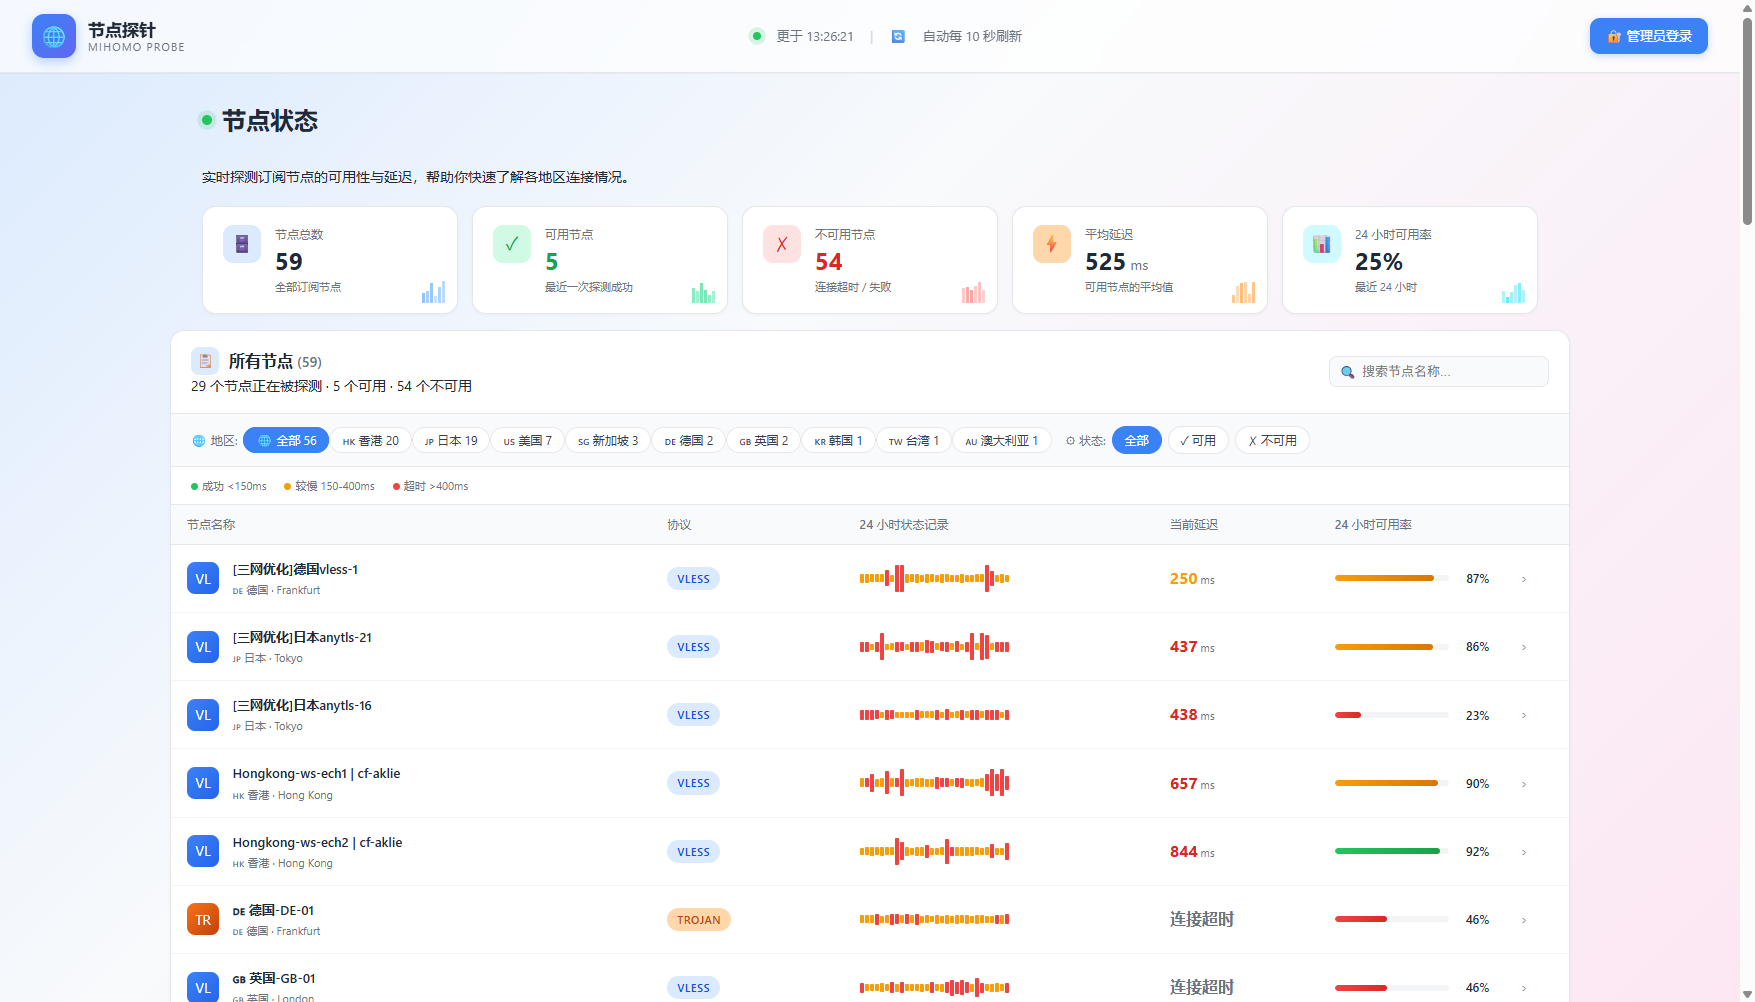
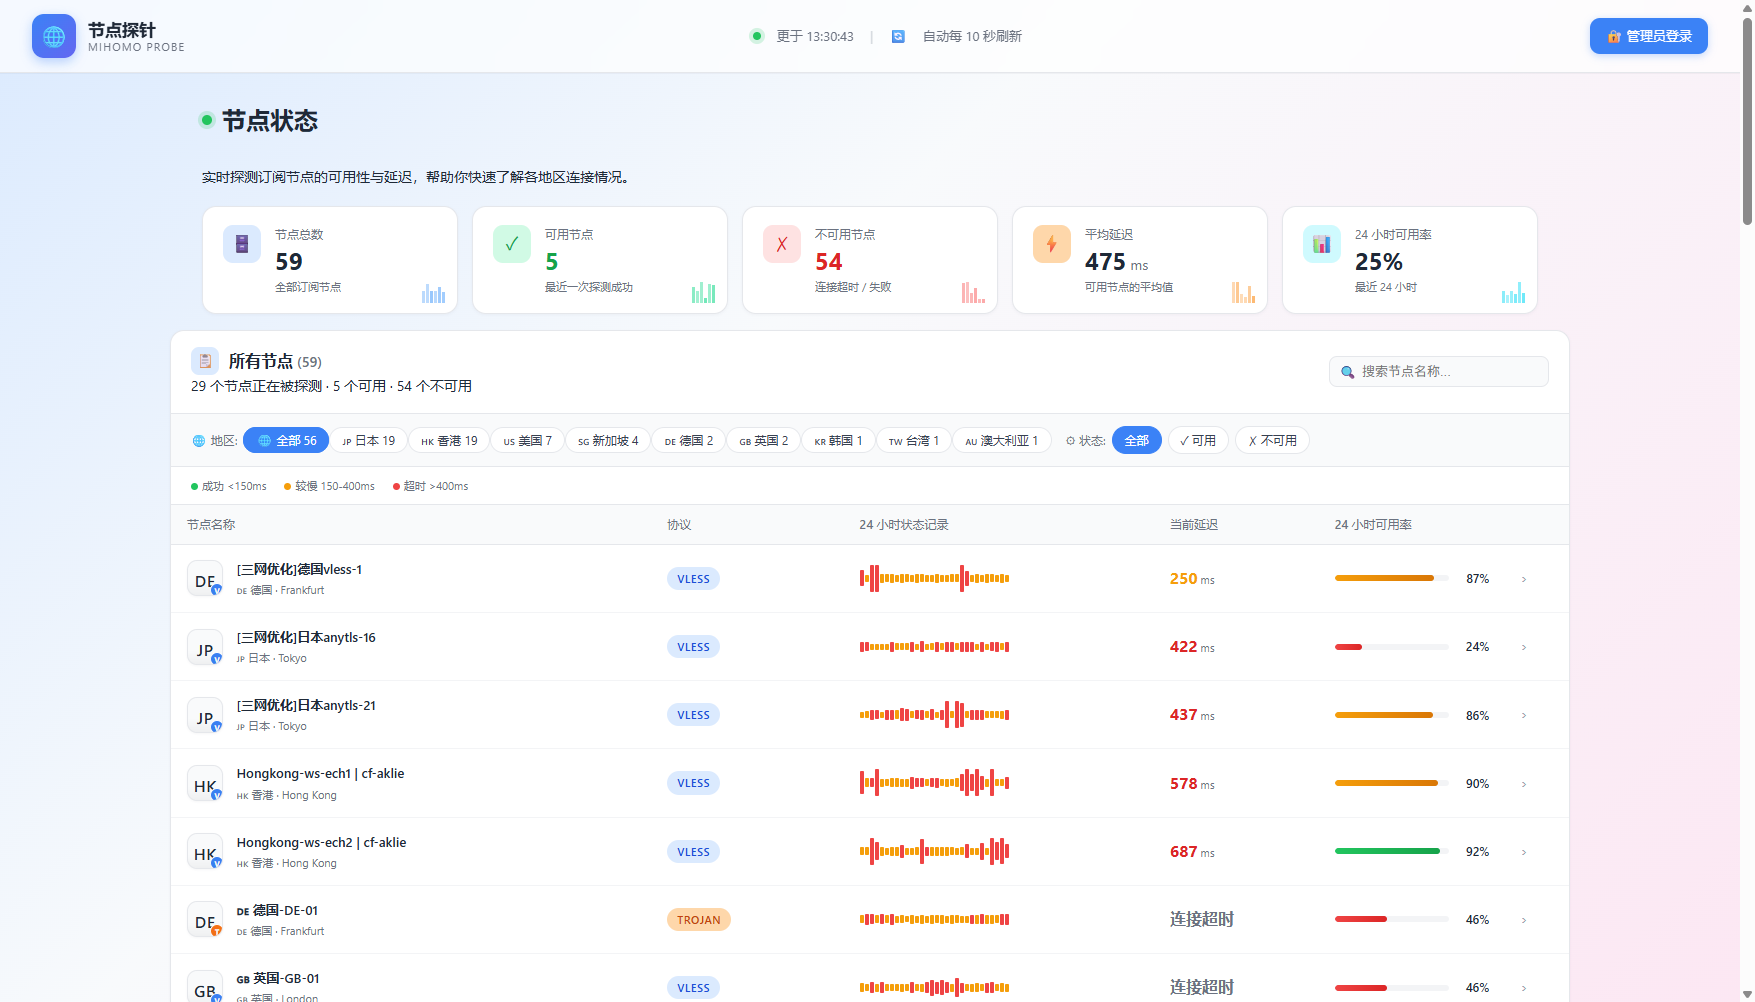
feat(ui): 节点行首图标改为国家国旗
- 把协议缩写方块（VL/TR/SS）改为 36x36 国家国旗大图标
- 浅灰底 + 1px 边框 + 阴影
- 右下角小角标显示协议类型首字母（V/T/S/H/A）
- country 为空时 fallback 到协议缩写方块

diff --git a/backend/static/index.html b/backend/static/index.html
@@ -194,20 +194,46 @@
     .probe-table tr:hover td { background: #fafbfc; }
 
     .probe-table .name-cell { min-width: 280px; }
+    /* 节点类型彩色方块改为国家国旗大图标 */
     .probe-table .name-cell .ico-bg {
-      width: 32px; height: 32px; border-radius: 8px;
+      width: 36px; height: 36px; border-radius: 10px;
       display: inline-flex; align-items: center; justify-content: center;
-      font-size: 14px; color: #fff; margin-right: 10px;
-      vertical-align: middle; flex: 0 0 32px;
+      font-size: 22px; line-height: 1; margin-right: 10px;
+      vertical-align: middle; flex: 0 0 36px;
+      background: #f3f4f6; border: 1px solid var(--border);
+      box-shadow: 0 1px 2px rgba(15, 23, 42, .04);
+      position: relative; overflow: hidden;
     }
-    .probe-table .name-cell .ico-bg.proto-vless    { background: linear-gradient(135deg, #3b82f6, #2563eb); }
-    .probe-table .name-cell .ico-bg.proto-anytls   { background: linear-gradient(135deg, #06b6d4, #0e7490); }
-    .probe-table .name-cell .ico-bg.proto-trojan   { background: linear-gradient(135deg, #f97316, #c2410c); }
-    .probe-table .name-cell .ico-bg.proto-vmess    { background: linear-gradient(135deg, #ec4899, #be185d); }
-    .probe-table .name-cell .ico-bg.proto-ss       { background: linear-gradient(135deg, #8b5cf6, #6d28d9); }
-    .probe-table .name-cell .ico-bg.proto-hysteria2{ background: linear-gradient(135deg, #10b981, #047857); }
-    .probe-table .name-cell .ico-bg.proto-direct  { background: linear-gradient(135deg, #6b7280, #374151); }
-    .probe-table .name-cell .ico-bg.proto-other    { background: linear-gradient(135deg, #64748b, #334155); }
+    .probe-table .name-cell .ico-bg::after {
+      content: ''; position: absolute; inset: 0;
+      background: linear-gradient(180deg, transparent 60%, rgba(0,0,0,.04));
+      pointer-events: none;
+    }
+    .probe-table .name-cell .ico-bg.proto-vless,
+    .probe-table .name-cell .ico-bg.proto-anytls,
+    .probe-table .name-cell .ico-bg.proto-trojan,
+    .probe-table .name-cell .ico-bg.proto-vmess,
+    .probe-table .name-cell .ico-bg.proto-ss,
+    .probe-table .name-cell .ico-bg.proto-hysteria2,
+    .probe-table .name-cell .ico-bg.proto-direct,
+    .probe-table .name-cell .ico-bg.proto-other {
+      background: #f9fafb; color: #1f2937;
+    }
+    /* 协议类型小角标（在国旗右下角） */
+    .probe-table .name-cell .ico-bg .proto-badge {
+      position: absolute; right: -2px; bottom: -2px;
+      width: 14px; height: 14px; border-radius: 50%;
+      background: var(--blue); color: #fff;
+      font-size: 8px; font-weight: 700; line-height: 14px;
+      text-align: center; border: 1.5px solid #fff;
+    }
+    .probe-table .name-cell .ico-bg .proto-badge.trojan { background: #f97316; }
+    .probe-table .name-cell .ico-bg .proto-badge.anytls { background: #06b6d4; }
+    .probe-table .name-cell .ico-bg .proto-badge.ss { background: #8b5cf6; }
+    .probe-table .name-cell .ico-bg .proto-badge.hysteria2 { background: #10b981; }
+    .probe-table .name-cell .ico-bg .proto-badge.vmess { background: #ec4899; }
+    .probe-table .name-cell .ico-bg .proto-badge.direct { background: #6b7280; }
+    .probe-table .name-cell .ico-bg .proto-badge.other { background: #64748b; }
     .probe-table .name-cell .name-text { display: inline-block; vertical-align: middle; }
     .probe-table .name-cell .name-text .main { font-weight: 600; color: var(--text); }
     .probe-table .name-cell .name-text .sub { font-size: 11px; color: var(--muted); margin-top: 2px; }
@@ -509,7 +535,9 @@
       const info = COUNTRY_DISPLAY[code] || { flag: '🌍', name: code || '未知', city: '—' };
       const proto = (p.type || 'other').toLowerCase();
       const protoUp = proto.toUpperCase();
-      const iconTxt = PROTO_ICON[proto] || protoUp.slice(0, 2);
+      // 无 country 时的 fallback 文本
+      const flagOrText = code ? info.flag : (PROTO_ICON[proto] || protoUp.slice(0, 2));
+      const protoBadge = code ? `<span class="proto-badge ${proto}">${escapeHtml(protoUp.slice(0, 1))}</span>` : '';
       const c = delayColor(p.delay);
       const delayText = p.delay != null ? `${p.delay}<span style="font-size:11px;font-weight:400;color:var(--muted)"> ms</span>` : '连接超时';
       let avail = 0;
@@ -526,7 +554,7 @@
       return `
         <tr data-name="${escapeHtml(p.name)}">
           <td class="name-cell">
-            <span class="ico-bg ${protoClass}">${escapeHtml(iconTxt)}</span>
+            <span class="ico-bg ${protoClass}" title="${escapeHtml(info.name)}">${flagOrText}${protoBadge}</span>
             <div class="name-text">
               <div class="main">${escapeHtml(p.name)}</div>
               <div class="sub">${info.flag} ${escapeHtml(info.name)} · ${escapeHtml(info.city)}</div>
